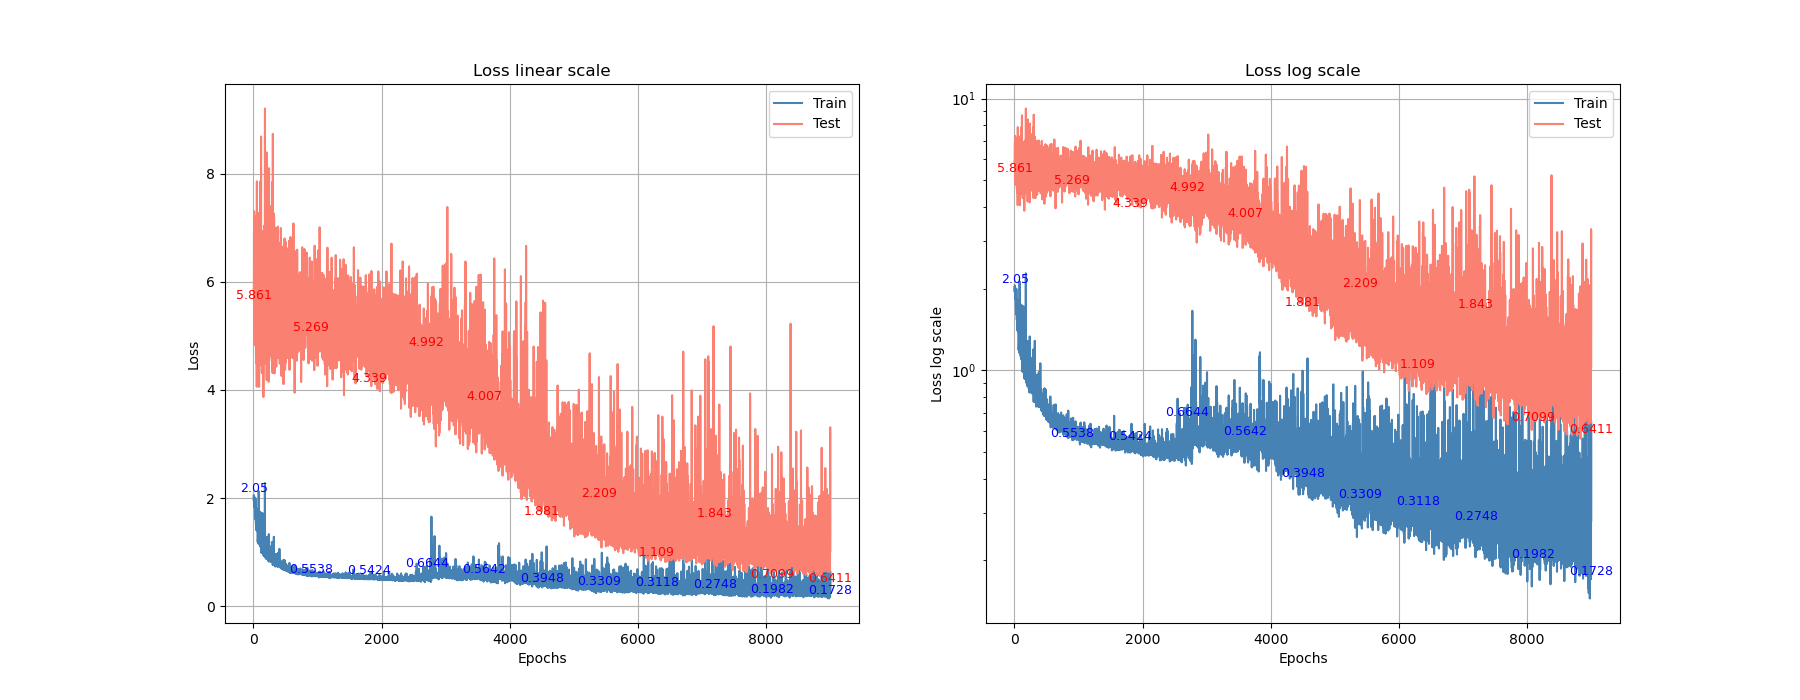
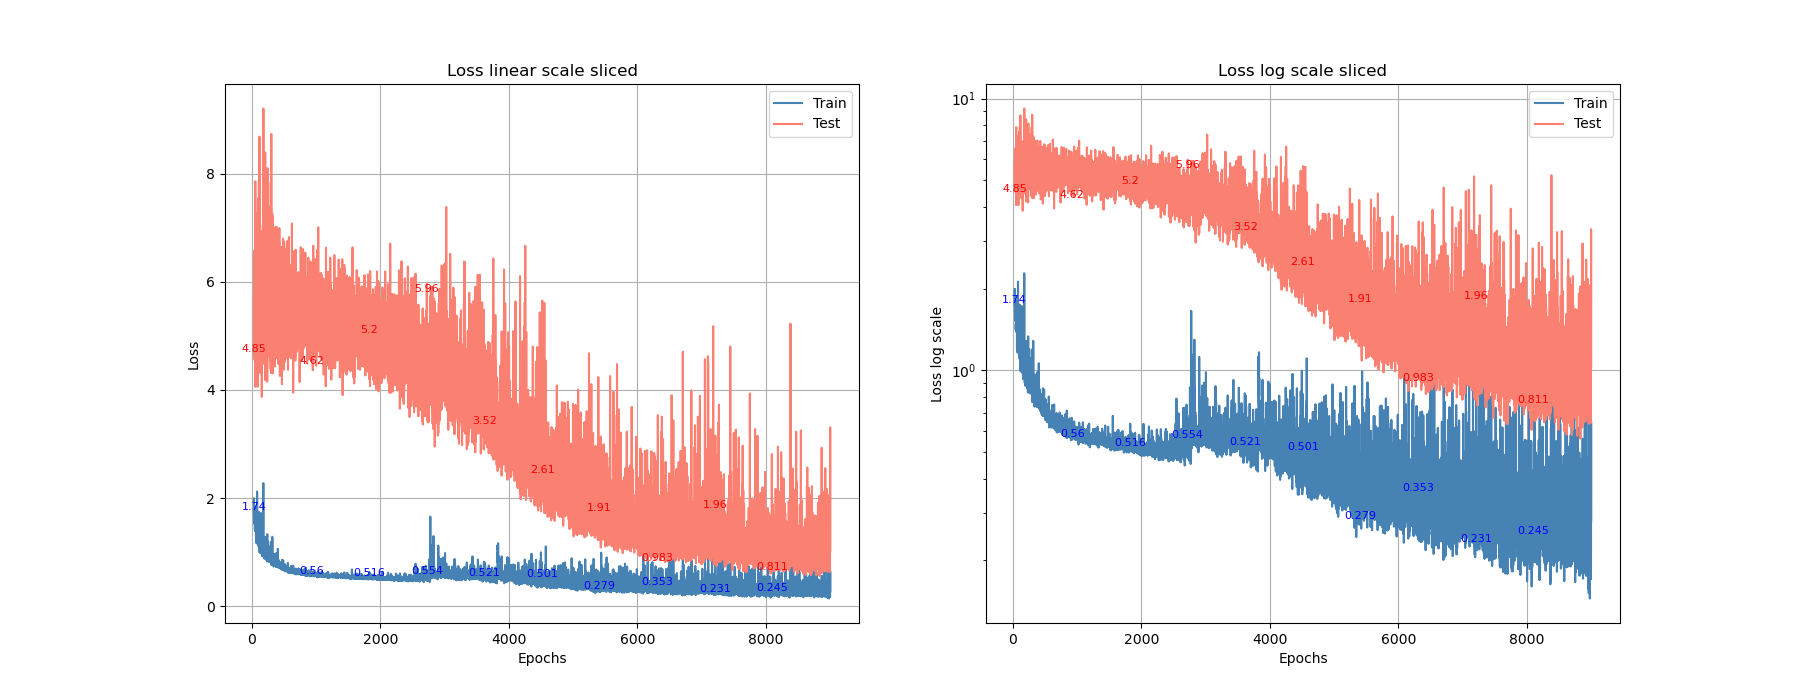
.

diff --git a/PlotFromText.py b/PlotFromText.py
@@ -80,9 +80,9 @@ def process_epoch_stats(file_path):
 def plot_parameter(x, y1, y2, title, plots_path=None, x_label="Epochs", save=False):
     sliced = ""
     # if len(y1) > 3 and (y1[0] > y1[3] + 2000 or y2[0] > y2[3] + 2000):
-    y1 = y1[5:]
-    y2 = y2[5:]
-    x = x[5:]
+    y1 = y1[30:]
+    y2 = y2[30:]
+    x = x[30:]
     sliced = " sliced"
     fig, axs = plt.subplots(1, 2, figsize=(18, 7))  # 1 row, 2 columns
     
@@ -110,12 +110,13 @@ def plot_parameter(x, y1, y2, title, plots_path=None, x_label="Epochs", save=Fal
 
 
 if __name__ == "__main__":
-    plots_path = "plots/Stereo/Winners/SED_0.5__L2_1__huber_1__lr_0.0001__conv__CLIP__use_reconstruction_True/BS_8__ratio_0.1__mid__frozen_4__seed_300"
+    plots_path = "plots/Stereo/Winners/SED_0.5__L2_1__huber_1__lr_0.0001__conv__CLIP__use_reconstruction_True/BS_8__ratio_0.0375__tail__frozen_4"
     file_path = os.path.join(plots_path, "output.log")
     save = True
 
     process_epoch_stats(file_path)
     print(len(epochs), len(training_losses), len(val_losses), len(training_maes), len(val_maes), len(alg_dists), len(val_alg_dists), len(re1_dists), len(val_re1_dists), len(sed_dists), len(val_sed_dists), len(alg_sqr_dists), len(val_alg_sqr_dists))
+    print(np.mean(val_maes[-50:]), np.mean(val_alg_dists[-50:]), np.mean(val_re1_dists[-50:]), np.mean(val_sed_dists[-50:]))
     
     plot_parameter(epochs, training_losses, val_losses, "Loss", plots_path, save=save)
     plot_parameter(epochs, training_maes, val_maes, "MAE", plots_path, save=save)
@@ -128,3 +129,5 @@ if __name__ == "__main__":
     except: 
         pass
     
+    # 0.06828850582242012 0.8396587000952827 0.9139413060082329 2.0640717697143556
+    # 0.06348117679357529 0.8128136677212185 0.8167292144563463 1.8715625296698675
